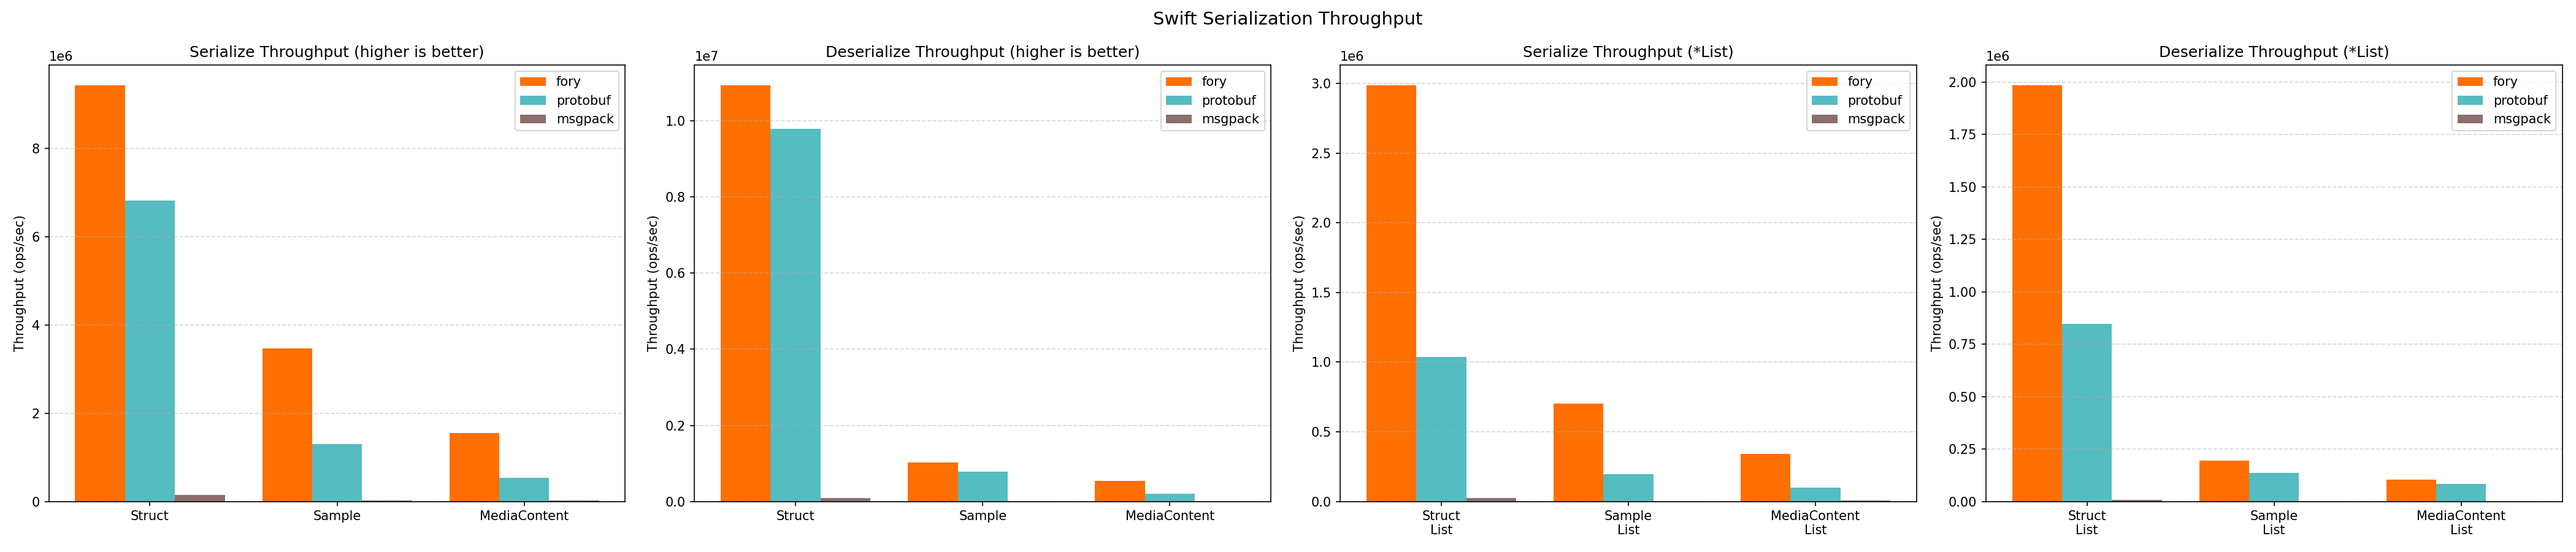
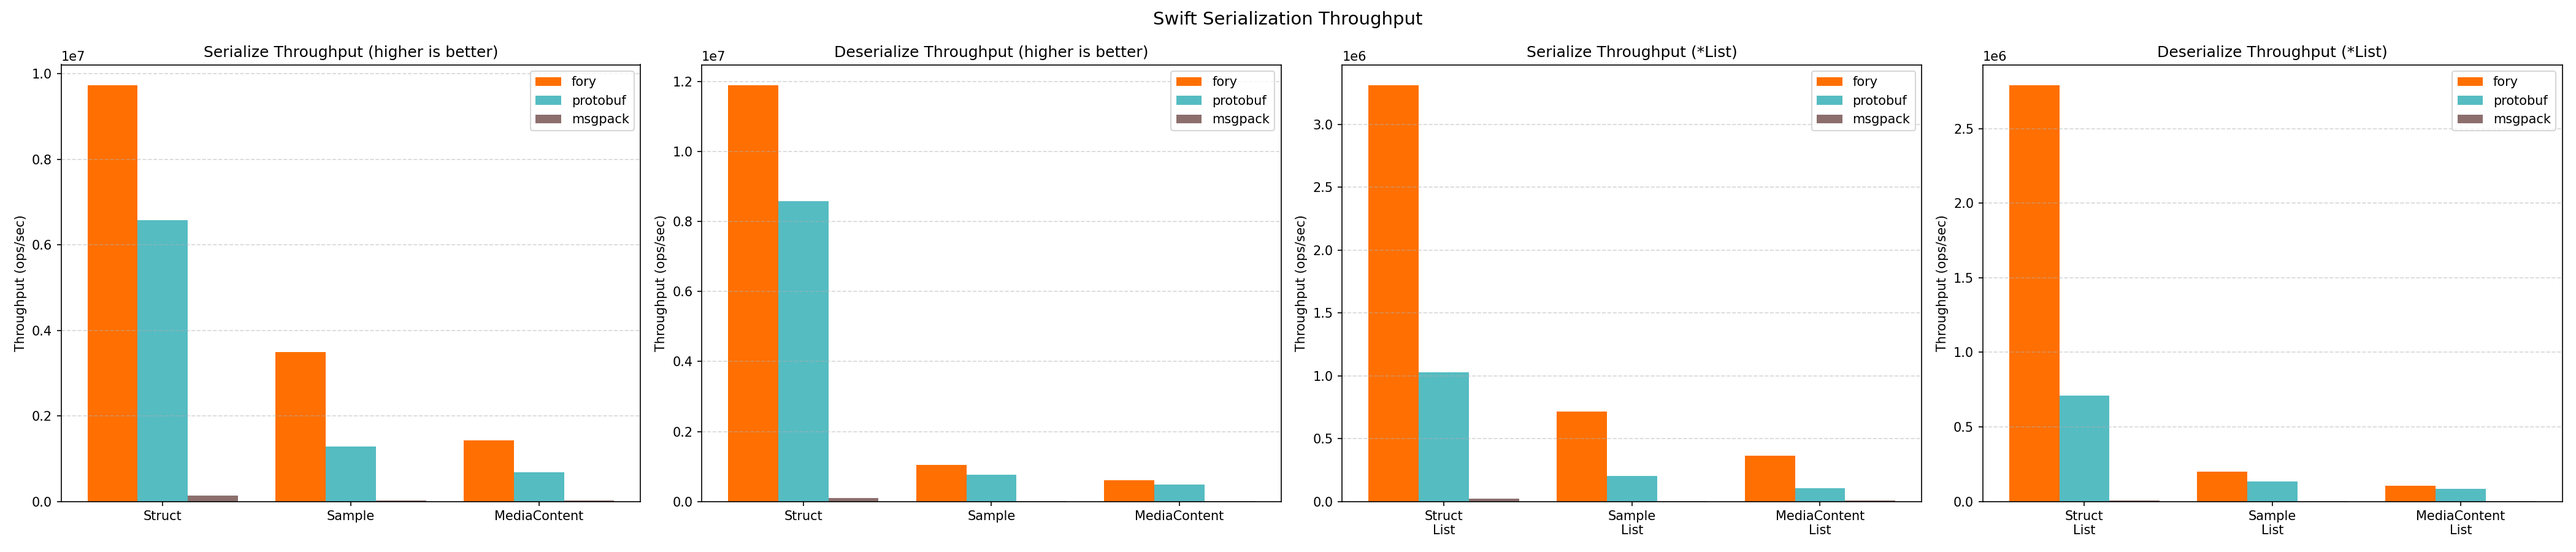
update benchmark result

diff --git a/benchmarks/swift/benchmark_report.py b/benchmarks/swift/benchmark_report.py
@@ -253,7 +253,7 @@ def write_report(
     else:
         image_path = plot_name
     lines.append('<p align="center">')
-    lines.append(f'<img src="{image_path}" width="95%">')
+    lines.append(f'<img src="{image_path}" width="95%" />')
     lines.append("</p>")
     lines.append("")
     lines.append(

diff --git a/docs/benchmarks/swift/README.md b/docs/benchmarks/swift/README.md
@@ -6,7 +6,7 @@ This benchmark compares serialization and deserialization throughput for Apache 
 
 | Key                   | Value                         |
 | --------------------- | ----------------------------- |
-| Timestamp             | 2026-03-09T14:33:22Z          |
+| Timestamp             | 2026-03-10T06:25:16Z          |
 | OS                    | Version 15.7.2 (Build 24G325) |
 | Host                  | macbook-pro.local             |
 | CPU Cores (Logical)   | 12                            |
@@ -21,18 +21,18 @@ This benchmark compares serialization and deserialization throughput for Apache 
 
 | Datatype         | Operation   |   Fory TPS | Protobuf TPS | Msgpack TPS | Fastest      |
 | ---------------- | ----------- | ---------: | -----------: | ----------: | ------------ |
-| Struct           | Serialize   |  9,431,923 |    6,820,649 |     144,341 | fory (1.38x) |
-| Struct           | Deserialize | 10,932,004 |    9,800,284 |      98,553 | fory (1.12x) |
-| Sample           | Serialize   |  3,465,820 |    1,296,513 |      17,166 | fory (2.67x) |
-| Sample           | Deserialize |  1,021,655 |      779,113 |      12,737 | fory (1.31x) |
-| MediaContent     | Serialize   |  1,558,600 |      530,492 |      26,006 | fory (2.94x) |
-| MediaContent     | Deserialize |    540,511 |      195,579 |      12,581 | fory (2.76x) |
-| StructList       | Serialize   |  2,984,505 |    1,035,284 |      25,607 | fory (2.88x) |
-| StructList       | Deserialize |  1,983,886 |      846,597 |       8,915 | fory (2.34x) |
-| SampleList       | Serialize   |    700,391 |      198,065 |       3,384 | fory (3.54x) |
-| SampleList       | Deserialize |    193,487 |      136,761 |       1,452 | fory (1.41x) |
-| MediaContentList | Serialize   |    342,939 |      100,652 |       5,461 | fory (3.41x) |
-| MediaContentList | Deserialize |    105,262 |       85,138 |       1,505 | fory (1.24x) |
+| Struct           | Serialize   |  9,727,950 |    6,572,406 |     141,248 | fory (1.48x) |
+| Struct           | Deserialize | 11,889,570 |    8,584,510 |      99,792 | fory (1.39x) |
+| Sample           | Serialize   |  3,496,305 |    1,281,983 |      17,188 | fory (2.73x) |
+| Sample           | Deserialize |  1,045,018 |      765,706 |      12,767 | fory (1.36x) |
+| MediaContent     | Serialize   |  1,425,354 |      678,542 |      29,048 | fory (2.10x) |
+| MediaContent     | Deserialize |    614,447 |      478,298 |      12,711 | fory (1.28x) |
+| StructList       | Serialize   |  3,307,962 |    1,028,210 |      24,781 | fory (3.22x) |
+| StructList       | Deserialize |  2,788,200 |      708,596 |       8,160 | fory (3.93x) |
+| SampleList       | Serialize   |    715,734 |      205,380 |       3,361 | fory (3.48x) |
+| SampleList       | Deserialize |    199,317 |      133,425 |       1,498 | fory (1.49x) |
+| MediaContentList | Serialize   |    364,097 |      103,721 |       5,538 | fory (3.51x) |
+| MediaContentList | Deserialize |    103,421 |       86,331 |       1,529 | fory (1.20x) |
 
 ## Serialized Size (bytes)
 
